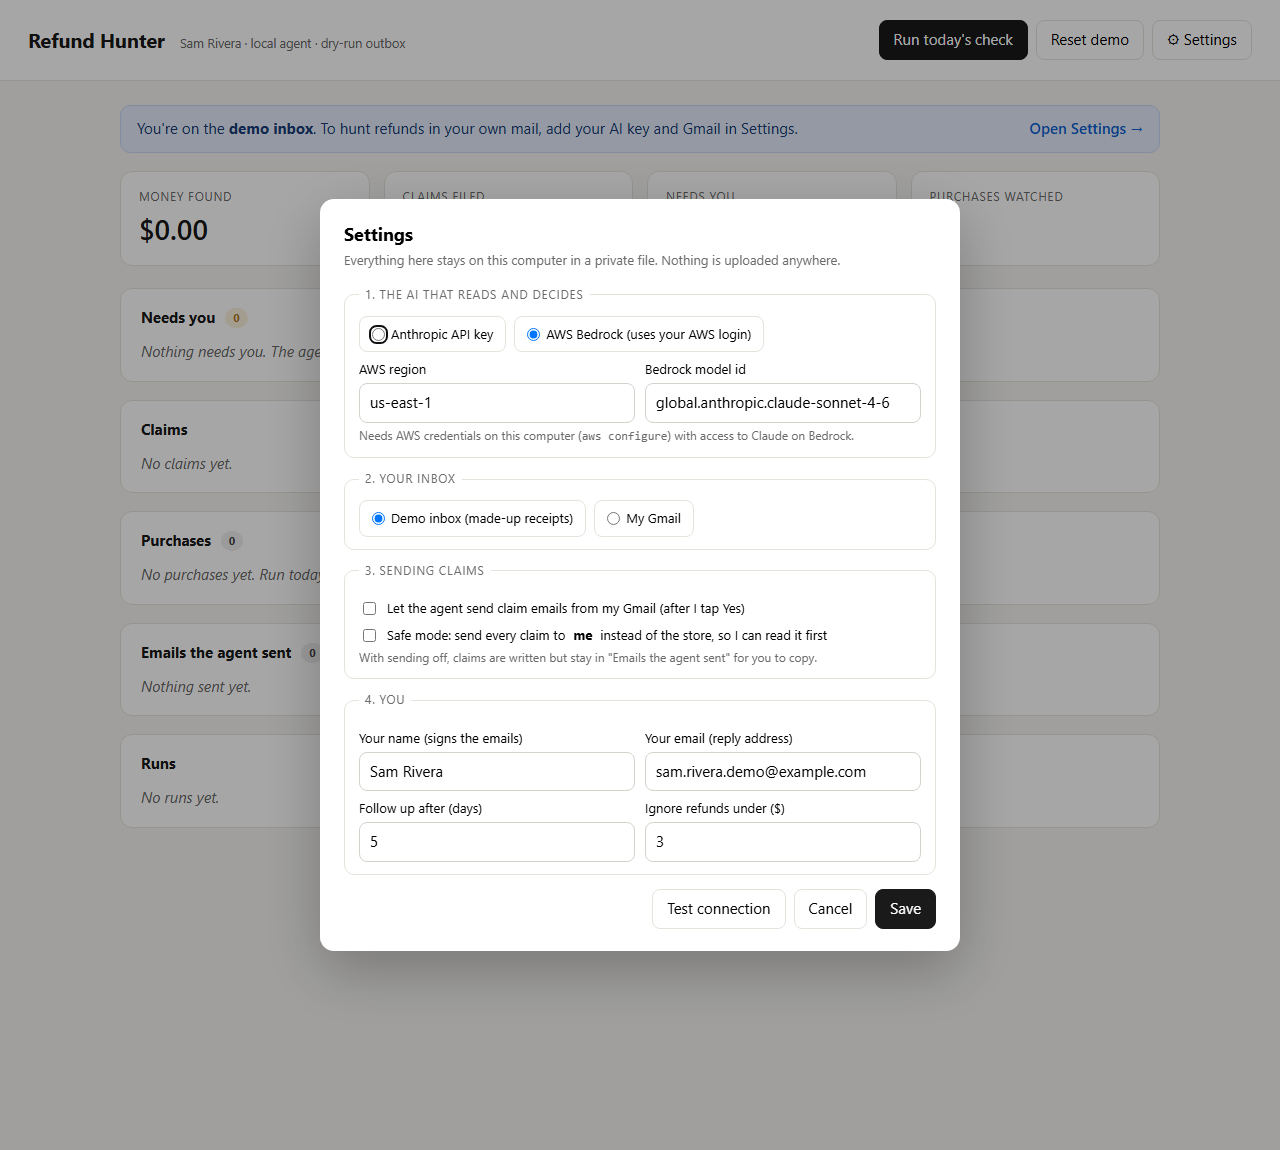
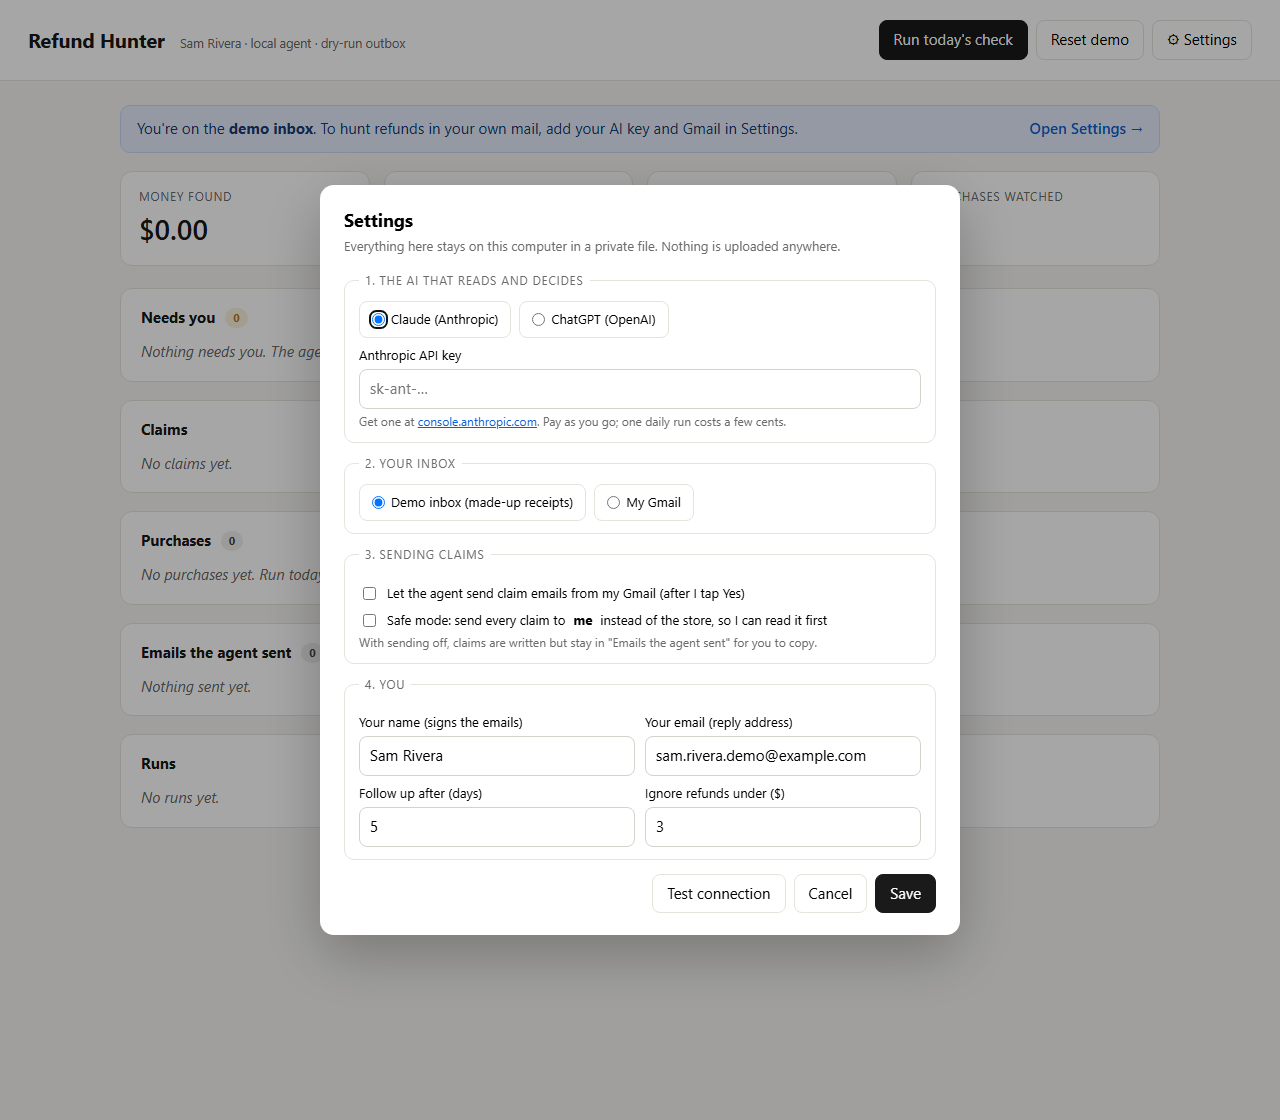
Settings: offer Claude or ChatGPT (OpenAI), drop AWS Bedrock from the UI
Claude-Session: https://claude.ai/code/session_01S39XnJ6fpW1uZZHDGe2riP

diff --git a/backend/refundhunter/dashboard.html b/backend/refundhunter/dashboard.html
@@ -84,20 +84,18 @@
     <fieldset>
       <legend>1. The AI that reads and decides</legend>
       <div class="choice">
-        <label><input type="radio" name="model_provider" value="anthropic"> Anthropic API key</label>
-        <label><input type="radio" name="model_provider" value="bedrock"> AWS Bedrock (uses your AWS login)</label>
+        <label><input type="radio" name="model_provider" value="anthropic"> Claude (Anthropic)</label>
+        <label><input type="radio" name="model_provider" value="openai"> ChatGPT (OpenAI)</label>
       </div>
       <div id="anthropic-fields">
         <label>Anthropic API key</label>
         <input type="password" name="anthropic_api_key" placeholder="sk-ant-…" autocomplete="off">
         <p class="help">Get one at <a href="https://console.anthropic.com/" target="_blank" rel="noopener">console.anthropic.com</a>. Pay as you go; one daily run costs a few cents.</p>
       </div>
-      <div id="bedrock-fields">
-        <div class="two">
-          <div><label>AWS region</label><input type="text" name="aws_region" placeholder="us-east-1"></div>
-          <div><label>Bedrock model id</label><input type="text" name="bedrock_model_id" placeholder="global.anthropic.claude-sonnet-4-6"></div>
-        </div>
-        <p class="help">Needs AWS credentials on this computer (<code>aws configure</code>) with access to Claude on Bedrock.</p>
+      <div id="openai-fields">
+        <label>OpenAI API key</label>
+        <input type="password" name="openai_api_key" placeholder="sk-…" autocomplete="off">
+        <p class="help">Get one at <a href="https://platform.openai.com/api-keys" target="_blank" rel="noopener">platform.openai.com</a>. Pay as you go; one daily run costs a few cents.</p>
       </div>
     </fieldset>
 
@@ -283,7 +281,7 @@ function readForm(){
 function toggleFields(){
   const d = readForm();
   $('#anthropic-fields').hidden = d.model_provider !== 'anthropic';
-  $('#bedrock-fields').hidden = d.model_provider !== 'bedrock';
+  $('#openai-fields').hidden = d.model_provider !== 'openai';
   $('#imap-fields').hidden = d.mail_source !== 'imap';
 }
 form.addEventListener('change', toggleFields);

diff --git a/docs/guide.html b/docs/guide.html
@@ -70,7 +70,7 @@
 <div class="tip"><b>Fresh start:</b> press <b>Reset demo</b> in the dashboard (top right) before recording. It wipes purchases, claims, and answers.</div>
 
 <h3>Connecting your own AI key and inbox (for real use, not needed for the video)</h3>
-<p>Click <b>⚙ Settings</b> at the top right. The form asks for four things: the AI (an Anthropic API key, or AWS Bedrock), your inbox (the demo inbox, or your Gmail with an App Password), whether the agent may send claim emails, and your name. <b>Test connection</b> checks the inbox login and the AI in one go. Everything is saved to a private file on this computer and never uploaded.</p>
+<p>Click <b>⚙ Settings</b> at the top right. The form asks for four things: the AI (a Claude/Anthropic key, or a ChatGPT/OpenAI key), your inbox (the demo inbox, or your Gmail with an App Password), whether the agent may send claim emails, and your name. <b>Test connection</b> checks the inbox login and the AI in one go. Everything is saved to a private file on this computer and never uploaded.</p>
 <img src="guide/05-settings.png" alt="The Settings panel">
 
 <p>Useful commands, if you ever want them:</p>

diff --git a/backend/refundhunter/user_settings.py b/backend/refundhunter/user_settings.py
@@ -15,16 +15,16 @@ from pydantic import BaseModel
 
 from .config import settings
 
-SECRET_FIELDS = ("anthropic_api_key", "imap_password", "smtp_password")
+SECRET_FIELDS = ("anthropic_api_key", "openai_api_key", "imap_password", "smtp_password")
 
 
 class UserSettings(BaseModel):
-    # model
-    model_provider: str = "bedrock"  # bedrock | anthropic
+    # model: the dashboard offers "anthropic" (Claude) or "openai" (ChatGPT)
+    model_provider: str = "anthropic"
     anthropic_api_key: str = ""
     anthropic_model_id: str = "claude-sonnet-4-6"
-    bedrock_model_id: str = "global.anthropic.claude-sonnet-4-6"
-    aws_region: str = "us-east-1"
+    openai_api_key: str = ""
+    openai_model_id: str = "gpt-4.1"
     # inbox
     mail_source: str = "fixtures"  # fixtures | imap
     imap_host: str = "imap.gmail.com"
@@ -79,12 +79,15 @@ def save(new: dict) -> UserSettings:
 
 def from_env() -> UserSettings:
     """What the environment (.env) says, as a starting point for the form."""
+    # The dashboard only offers Anthropic or OpenAI; if the env says bedrock, default the form
+    # to Anthropic so a person sees a key field they can fill.
+    provider = settings.model_provider if settings.model_provider in ("anthropic", "openai") else "anthropic"
     return UserSettings(
-        model_provider=settings.model_provider,
+        model_provider=provider,
         anthropic_api_key=os.getenv("ANTHROPIC_API_KEY", ""),
         anthropic_model_id=settings.anthropic_model_id,
-        bedrock_model_id=settings.bedrock_model_id,
-        aws_region=settings.aws_region,
+        openai_api_key=os.getenv("OPENAI_API_KEY", ""),
+        openai_model_id=settings.openai_model_id,
         mail_source=settings.mail_source,
         imap_host=settings.imap_host,
         imap_user=settings.imap_user or "",
@@ -107,10 +110,11 @@ def apply(us: UserSettings) -> None:
     """Push the saved settings into the live config so the next run uses them."""
     settings.model_provider = us.model_provider
     settings.anthropic_model_id = us.anthropic_model_id
-    settings.bedrock_model_id = us.bedrock_model_id
-    settings.aws_region = us.aws_region
+    settings.openai_model_id = us.openai_model_id
     if us.anthropic_api_key:
         os.environ["ANTHROPIC_API_KEY"] = us.anthropic_api_key
+    if us.openai_api_key:
+        os.environ["OPENAI_API_KEY"] = us.openai_api_key
     settings.mail_source = us.mail_source
     settings.imap_host = us.imap_host
     settings.imap_user = us.imap_user or None

diff --git a/backend/tests/test_settings.py b/backend/tests/test_settings.py
@@ -9,18 +9,19 @@ from refundhunter.config import settings
 def test_settings_roundtrip_and_masking(tmp_path, monkeypatch):
     monkeypatch.setattr(settings, "data_dir", tmp_path)
     assert user_settings.load() is None
-    us = user_settings.save({"model_provider": "anthropic", "anthropic_api_key": "sk-ant-abcdef1234",
+    us = user_settings.save({"model_provider": "openai", "openai_api_key": "sk-openai-abcdef1234",
+                             "anthropic_api_key": "sk-ant-abcdef1234",
                              "mail_source": "imap", "imap_user": "me@gmail.com", "imap_password": "pppp",
                              "safe_mode": True, "owner_email": "me@gmail.com", "unknown_field": "ignored"})
     assert us.anthropic_api_key == "sk-ant-abcdef1234"
     assert (tmp_path / "settings.json").exists()
     m = user_settings.masked(us)
-    assert m["anthropic_api_key"].endswith("1234") and m["anthropic_api_key"].startswith("•")
+    assert m["openai_api_key"].endswith("1234") and m["openai_api_key"].startswith("•")
     assert m["imap_password"].startswith("•")
     # an empty or masked secret in a later save keeps the stored value
-    us2 = user_settings.save({"anthropic_api_key": "", "imap_password": m["imap_password"], "owner_name": "Alex"})
-    assert us2.anthropic_api_key == "sk-ant-abcdef1234" and us2.imap_password == "pppp"
+    us2 = user_settings.save({"openai_api_key": "", "imap_password": m["imap_password"], "owner_name": "Alex"})
+    assert us2.openai_api_key == "sk-openai-abcdef1234" and us2.imap_password == "pppp"
     assert us2.owner_name == "Alex"
     # applied to the live config
-    assert settings.model_provider == "anthropic" and settings.mail_source == "imap"
+    assert settings.model_provider == "openai" and settings.mail_source == "imap"
     assert settings.claims_to_override == "me@gmail.com"

diff --git a/backend/refundhunter/agents/llm.py b/backend/refundhunter/agents/llm.py
@@ -12,18 +12,27 @@ from ..config import settings
 @lru_cache(maxsize=4)
 def get_model(role: str = "default") -> Model:
     provider = settings.model_provider.lower()
+    if provider == "anthropic":
+        from strands.models.anthropic import AnthropicModel
+
+        return AnthropicModel(
+            model_id=settings.anthropic_model_id, max_tokens=settings.model_max_tokens
+        )
+    if provider in ("openai", "chatgpt"):
+        from strands.models.openai import OpenAIModel
+
+        return OpenAIModel(
+            model_id=settings.openai_model_id,
+            params={"max_completion_tokens": settings.model_max_tokens},
+        )
     if provider == "bedrock":
+        # Used by the deployed AgentCore runtime (AWS credentials from the role). Not offered in
+        # the dashboard, which asks for an Anthropic or OpenAI key instead.
         from strands.models import BedrockModel
 
         return BedrockModel(
             model_id=settings.bedrock_model_id,
             region_name=settings.aws_region,
             max_tokens=settings.model_max_tokens,
-        )
-    if provider == "anthropic":
-        from strands.models.anthropic import AnthropicModel
-
-        return AnthropicModel(
-            model_id=settings.anthropic_model_id, max_tokens=settings.model_max_tokens
         )
     raise ValueError(f"Unknown RH_MODEL_PROVIDER={settings.model_provider!r}")

diff --git a/backend/refundhunter/config.py b/backend/refundhunter/config.py
@@ -48,10 +48,12 @@ class Settings(BaseSettings):
     model_config = SettingsConfigDict(env_prefix="RH_", env_file=".env", extra="ignore")
 
     # --- model ---------------------------------------------------------------
-    model_provider: str = "bedrock"  # bedrock | anthropic
+    # bedrock (deployed runtime) | anthropic | openai (both offered in the dashboard)
+    model_provider: str = "bedrock"
     bedrock_model_id: str = "global.anthropic.claude-sonnet-4-6"
     aws_region: str = "us-east-1"
     anthropic_model_id: str = "claude-sonnet-4-6"
+    openai_model_id: str = "gpt-4.1"
     model_max_tokens: int = 4000
 
     # --- storage -------------------------------------------------------------

diff --git a/README.md b/README.md
@@ -55,7 +55,7 @@ inbox ──► Receipt Reader ──► purchases ──► Hunter ──► cl
 | Human decision | `tool_context.interrupt(...)` inside `file_claim`; `AgentResult.stop_reason == "interrupt"`; resume with `interruptResponse` |
 | Multi-day pause | `FileSessionManager` locally, `S3SessionManager` on AgentCore, so a "yes" hours later resumes the same agent |
 | Several claims at once | unanswered interrupts are answered `pending` and re-raised, so each claim waits for its own answer |
-| Model | Claude Sonnet 4.6 on Amazon Bedrock (`BedrockModel`); `AnthropicModel` as a dev fallback |
+| Model | Pluggable: `AnthropicModel` (Claude) or `OpenAIModel` (ChatGPT) when you run it yourself; `BedrockModel` (Claude Sonnet 4.6) on the deployed runtime |
 
 ## Architecture
 
@@ -86,8 +86,7 @@ uv pip install -e ".[dev]" "strands-agents[anthropic]"
 
 Open **http://127.0.0.1:8000** and click **⚙ Settings**. The form asks for four things:
 
-1. **The AI.** Paste an Anthropic API key, or pick AWS Bedrock if you have AWS credentials with
-   Claude access on this machine.
+1. **The AI.** Paste a Claude (Anthropic) API key, or a ChatGPT (OpenAI) API key.
 2. **Your inbox.** Keep the demo inbox to try it, or choose *My Gmail* and enter your address and a
    Gmail [App Password](https://myaccount.google.com/apppasswords) (2-Step Verification must be on).
    Refund Hunter only reads mail; it never deletes or moves anything.
